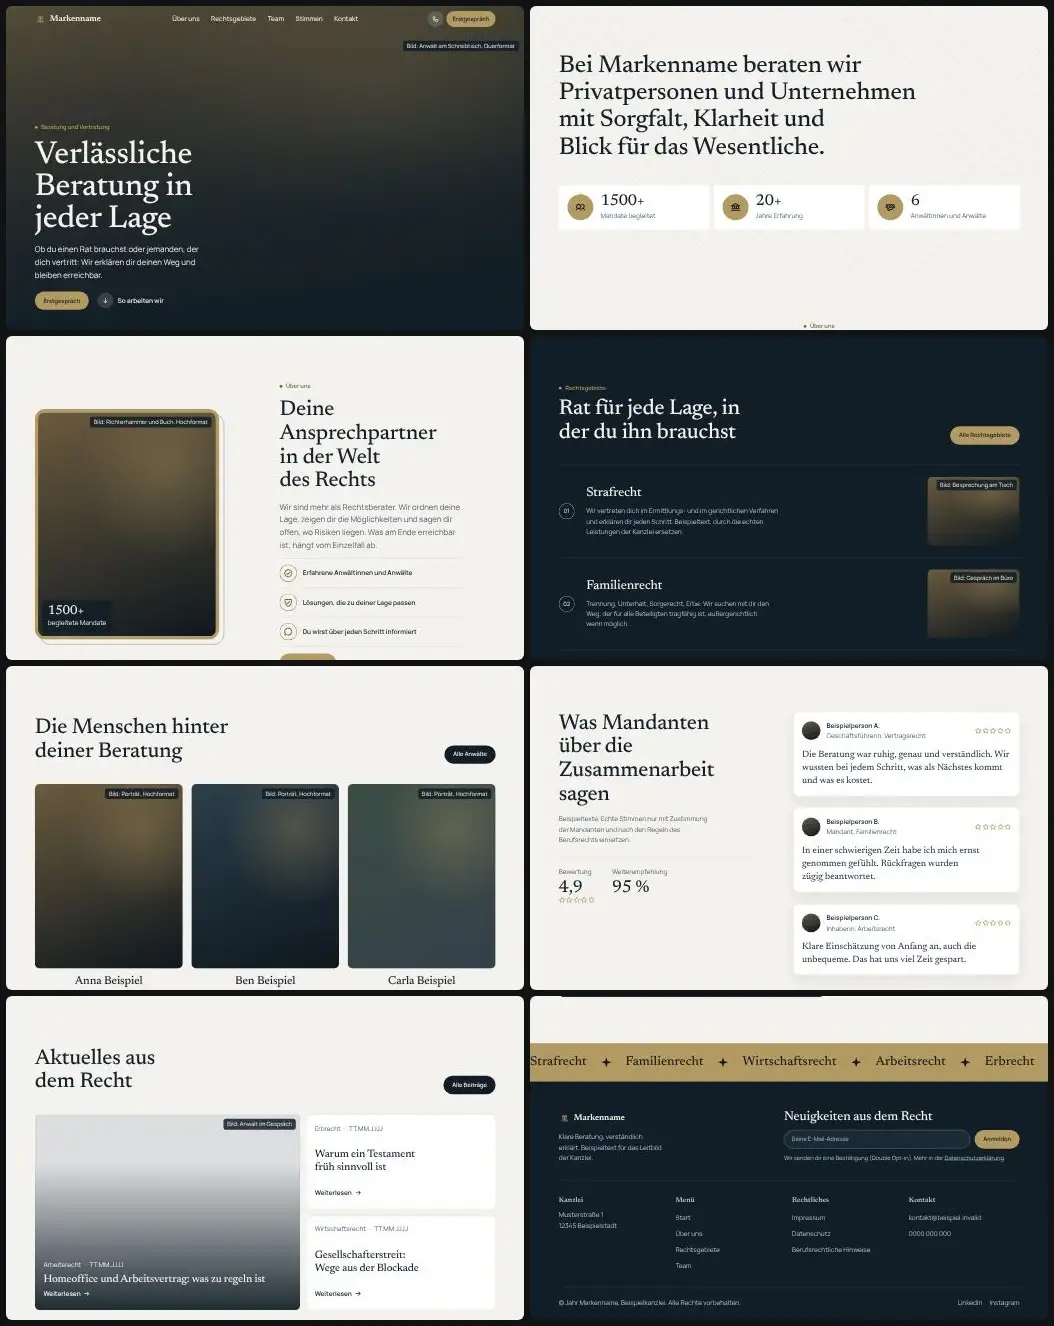
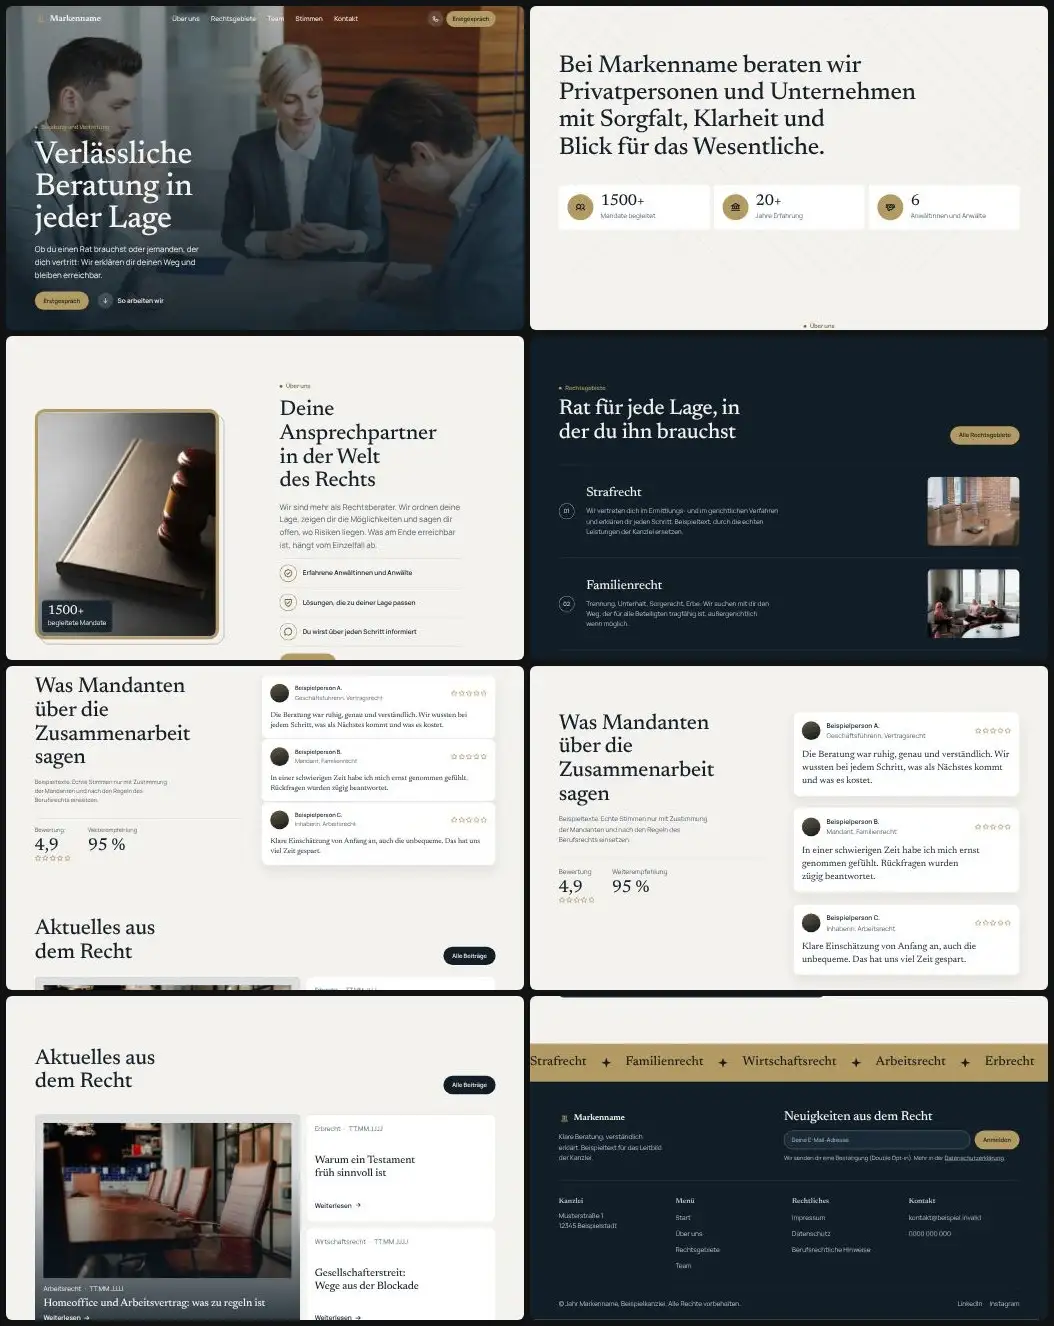
Bibliothek t64: Beispielfotos (Unsplash) eingebaut, Vorschaubilder neu erzeugt
Claude-Session: https://claude.ai/code/session_01DoGuL1bwF3ewggMgZ4Cpvd

diff --git a/skills/webdesign-conversion/assets/vorlagen/bibliothek/t64/v2.html b/skills/webdesign-conversion/assets/vorlagen/bibliothek/t64/v2.html
@@ -64,7 +64,7 @@
         </div>
       </div>
       <div class="rahmen rahmen--dunkel" data-zeig="skala">
-        <div class="bild rahmen__bild" data-platzhalter="Bild: Anwalt mit Akte, Hochformat" role="img" aria-label="Platzhalter für ein Foto von einem Anwalt mit einer Akte"></div>
+        <div class="bild rahmen__bild"><img src="bilder/kanzlei-unterschrift-holztisch.webp" width="900" height="600" alt="Eine Hand unterschreibt ein Dokument auf einem Holztisch" loading="lazy" decoding="async"></div>
       </div>
     </div>
   </section>
@@ -83,15 +83,15 @@
       </header>
       <div class="mosaik" data-staffel data-beispiel>
         <div class="mosaik__spalte">
-          <div class="bild mosaik__bild bild--a" data-zeig data-platzhalter="Bild: Unterschrift auf Vertrag" role="img" aria-label="Platzhalter für ein Foto von einer Unterschrift auf einem Vertrag"></div>
+          <div class="bild mosaik__bild bild--a" data-zeig><img src="bilder/kanzlei-vertrag-schreiben.webp" width="1000" height="800" alt="Hände mit Stift auf einem Vertrag" loading="lazy" decoding="async"></div>
           <article class="karte karte--messing" data-zeig><h3>Klar erklärt</h3><p>Rechtliche Fragen sind selten einfach. Wir übersetzen sie in verständliche Schritte.</p></article>
         </div>
         <div class="mosaik__spalte mosaik__spalte--mitte">
-          <article class="karte karte--bild bild bild--b" data-zeig data-platzhalter="Bild: Richterhammer und Buch"><div><h3>Erfahrung im Verfahren</h3><p>Wir kennen Abläufe, Fristen und Gegenseiten und bereiten jeden Termin sorgfältig vor.</p></div></article>
+          <article class="karte karte--bild bild bild--b" data-zeig><img src="bilder/kanzlei-hammer-dunkel.webp" width="1000" height="667" alt="Holzhammer neben einem Buch auf dunkler Fläche" loading="lazy" decoding="async"><div><h3>Erfahrung im Verfahren</h3><p>Wir kennen Abläufe, Fristen und Gegenseiten und bereiten jeden Termin sorgfältig vor.</p></div></article>
         </div>
         <div class="mosaik__spalte">
           <article class="karte karte--grau" data-zeig><h3>Erreichbar bleiben</h3><p>Du hast eine feste Ansprechperson und erfährst, wie es weitergeht.</p></article>
-          <div class="bild mosaik__bild bild--c" data-zeig data-platzhalter="Bild: Waage und Hammer" role="img" aria-label="Platzhalter für ein Foto von einer Waage und einem Hammer"></div>
+          <div class="bild mosaik__bild bild--c" data-zeig><img src="bilder/kanzlei-hammer-marmor.webp" width="1000" height="667" alt="Holzhammer und Block auf hellem Marmor" loading="lazy" decoding="async"></div>
         </div>
       </div>
       <p class="mitte"><a class="knopf knopf--dunkel" href="#kontakt" data-zeig>Mehr über uns</a></p>
@@ -112,17 +112,17 @@
         <article class="praxis__zeile" data-zeig>
           <p class="praxis__nr" aria-hidden="true">01</p>
           <div class="praxis__text"><h3>Strafrecht</h3><p>Wir vertreten dich im Ermittlungs- und im gerichtlichen Verfahren und erklären dir jeden Schritt. Beispieltext, durch die echten Leistungen der Kanzlei ersetzen.</p></div>
-          <div class="bild praxis__bild bild--a" data-platzhalter="Bild: Besprechung am Tisch" role="img" aria-label="Platzhalter für ein Foto: Besprechung am Tisch"></div>
+          <div class="bild praxis__bild bild--a"><img src="bilder/kanzlei-konferenzraum-holz.webp" width="1000" height="563" alt="Konferenzraum mit Holztisch und Stühlen" loading="lazy" decoding="async"></div>
         </article>
         <article class="praxis__zeile" data-zeig>
           <p class="praxis__nr" aria-hidden="true">02</p>
           <div class="praxis__text"><h3>Familienrecht</h3><p>Trennung, Unterhalt, Sorgerecht, Erbe: Wir suchen mit dir den Weg, der für alle Beteiligten tragfähig ist, außergerichtlich wenn möglich.</p></div>
-          <div class="bild praxis__bild bild--b" data-platzhalter="Bild: Gespräch im Büro" role="img" aria-label="Platzhalter für ein Foto: Gespräch im Büro"></div>
+          <div class="bild praxis__bild bild--b"><img src="bilder/kanzlei-sofa-gespraech.webp" width="1000" height="667" alt="Drei Personen im Gespräch auf einem Sofa vor großen Fenstern" loading="lazy" decoding="async"></div>
         </article>
         <article class="praxis__zeile" data-zeig>
           <p class="praxis__nr" aria-hidden="true">03</p>
           <div class="praxis__text"><h3>Wirtschaftsrecht</h3><p>Verträge, Gesellschaftsfragen und Streit mit Geschäftspartnern. Wir beraten Unternehmen vom Start bis zur Nachfolge.</p></div>
-          <div class="bild praxis__bild bild--c" data-platzhalter="Bild: Team am Besprechungstisch" role="img" aria-label="Platzhalter für ein Foto: Team am Besprechungstisch"></div>
+          <div class="bild praxis__bild bild--c"><img src="bilder/kanzlei-konferenzraum-leinwand.webp" width="1000" height="563" alt="Konferenzraum mit Leinwand und Stuhlreihen" loading="lazy" decoding="async"></div>
         </article>
       </div>
     </div>
@@ -155,7 +155,7 @@
       </header>
       <div class="warum__paar">
         <div class="rahmen rahmen--dunkel" data-zeig="links">
-          <div class="bild rahmen__bild" data-platzhalter="Bild: Beratung zu zweit, Hochformat" role="img" aria-label="Platzhalter für ein Foto von einer Beratung zu zweit"></div>
+          <div class="bild rahmen__bild"><img src="bilder/kanzlei-unterschrift-zu-zweit.webp" width="900" height="675" alt="Zwei Personen unterschreiben gemeinsam Unterlagen" loading="lazy" decoding="async"></div>
         </div>
         <ul class="warum__liste" data-staffel data-beispiel>
           <li data-zeig><span class="punkte__zeichen" aria-hidden="true"><svg width="26" height="26" focusable="false"><use href="#i-hand"/></svg></span><div><h3>Persönliche Betreuung</h3><p>Du sprichst mit der Person, die deine Akte kennt, und nicht mit wechselnden Ansprechpartnern.</p></div></li>
@@ -177,8 +177,8 @@
         <a class="knopf knopf--dunkel" href="#faelle" data-zeig>Alle Beispiele</a>
       </header>
       <ul class="faelle__raster" data-staffel data-beispiel>
-        <li data-zeig><div class="bild faelle__bild bild--a" data-platzhalter="Bild: Besprechung im Büro" role="img" aria-label="Platzhalter für ein Foto von einer Besprechung im Büro"></div><div class="faelle__karte"><h3>Gesellschafterstreit außergerichtlich beigelegt</h3><a class="beitrag__mehr" href="#faelle">Weiterlesen <svg width="18" height="18" aria-hidden="true" focusable="false"><use href="#i-pfeil"/></svg></a></div></li>
-        <li data-zeig><div class="bild faelle__bild bild--c" data-platzhalter="Bild: Gespräch am Tisch" role="img" aria-label="Platzhalter für ein Foto von einem Gespräch am Tisch"></div><div class="faelle__karte"><h3>Umgangsregelung einvernehmlich vereinbart</h3><a class="beitrag__mehr" href="#faelle">Weiterlesen <svg width="18" height="18" aria-hidden="true" focusable="false"><use href="#i-pfeil"/></svg></a></div></li>
+        <li data-zeig><div class="bild faelle__bild bild--a"><img src="bilder/kanzlei-stuehle-konferenztisch.webp" width="1000" height="563" alt="Schwarze Bürostühle an einem langen Konferenztisch" loading="lazy" decoding="async"></div><div class="faelle__karte"><h3>Gesellschafterstreit außergerichtlich beigelegt</h3><a class="beitrag__mehr" href="#faelle">Weiterlesen <svg width="18" height="18" aria-hidden="true" focusable="false"><use href="#i-pfeil"/></svg></a></div></li>
+        <li data-zeig><div class="bild faelle__bild bild--c"><img src="bilder/kanzlei-schreiben-papier.webp" width="1000" height="667" alt="Ein Mann schreibt mit einem Stift auf Papier" loading="lazy" decoding="async"></div><div class="faelle__karte"><h3>Umgangsregelung einvernehmlich vereinbart</h3><a class="beitrag__mehr" href="#faelle">Weiterlesen <svg width="18" height="18" aria-hidden="true" focusable="false"><use href="#i-pfeil"/></svg></a></div></li>
       </ul>
       <p class="faelle__hinweis">Beispieltexte. Aus echten Mandaten nur anonymisiert und mit Zustimmung berichten, und ohne Erfolgsversprechen für künftige Fälle.</p>
     </div>

diff --git a/skills/webdesign-conversion/assets/vorlagen/bibliothek/t64/index.html b/skills/webdesign-conversion/assets/vorlagen/bibliothek/t64/index.html
@@ -53,7 +53,7 @@
 <main id="inhalt">
   <!-- 1. Held: Vollbild, Text links unten -->
   <section class="held" id="top" aria-labelledby="h-held" data-abdunkeln>
-    <div class="bild held__bild" data-platzhalter="Bild: Anwalt am Schreibtisch, Querformat" role="img" aria-label="Platzhalter für ein Foto von einem Anwalt am Schreibtisch"></div>
+    <div class="bild held__bild"><img src="bilder/kanzlei-besprechung-vertrag.webp" width="1600" height="900" alt="Besprechung an einem Tisch, ein Vertrag wird unterschrieben" loading="lazy" decoding="async"></div>
     <div class="held__schleier" aria-hidden="true"></div>
     <div class="wrap held__innen" data-staffel>
       <p class="kicker kicker--hell" data-zeig>Beratung und Vertretung</p>
@@ -82,7 +82,7 @@
   <section class="sektion ueber" id="ueber-uns" aria-labelledby="h-ueber">
     <div class="wrap ueber__paar">
       <div class="rahmen" data-zeig="links">
-        <div class="bild rahmen__bild" data-platzhalter="Bild: Richterhammer und Buch, Hochformat" role="img" aria-label="Platzhalter für ein Foto von einem Richterhammer auf einem Buch"></div>
+        <div class="bild rahmen__bild"><img src="bilder/kanzlei-hammer-buch.webp" width="900" height="461" alt="Holzhammer auf einem geschlossenen Buch" loading="lazy" decoding="async"></div>
         <p class="rahmen__zahl" data-beispiel><span class="zahl"><span data-zaehle>1500</span>+</span><span>begleitete Mandate</span></p>
       </div>
       <div class="ueber__text" data-staffel>
@@ -113,17 +113,17 @@
         <article class="praxis__zeile" data-zeig>
           <p class="praxis__nr" aria-hidden="true">01</p>
           <div class="praxis__text"><h3>Strafrecht</h3><p>Wir vertreten dich im Ermittlungs- und im gerichtlichen Verfahren und erklären dir jeden Schritt. Beispieltext, durch die echten Leistungen der Kanzlei ersetzen.</p></div>
-          <div class="bild praxis__bild bild--a" data-platzhalter="Bild: Besprechung am Tisch" role="img" aria-label="Platzhalter für ein Foto: Besprechung am Tisch"></div>
+          <div class="bild praxis__bild bild--a"><img src="bilder/kanzlei-konferenzraum-holz.webp" width="1000" height="563" alt="Konferenzraum mit Holztisch und Stühlen" loading="lazy" decoding="async"></div>
         </article>
         <article class="praxis__zeile" data-zeig>
           <p class="praxis__nr" aria-hidden="true">02</p>
           <div class="praxis__text"><h3>Familienrecht</h3><p>Trennung, Unterhalt, Sorgerecht, Erbe: Wir suchen mit dir den Weg, der für alle Beteiligten tragfähig ist, außergerichtlich wenn möglich.</p></div>
-          <div class="bild praxis__bild bild--b" data-platzhalter="Bild: Gespräch im Büro" role="img" aria-label="Platzhalter für ein Foto: Gespräch im Büro"></div>
+          <div class="bild praxis__bild bild--b"><img src="bilder/kanzlei-sofa-gespraech.webp" width="1000" height="667" alt="Drei Personen im Gespräch auf einem Sofa vor großen Fenstern" loading="lazy" decoding="async"></div>
         </article>
         <article class="praxis__zeile" data-zeig>
           <p class="praxis__nr" aria-hidden="true">03</p>
           <div class="praxis__text"><h3>Wirtschaftsrecht</h3><p>Verträge, Gesellschaftsfragen und Streit mit Geschäftspartnern. Wir beraten Unternehmen vom Start bis zur Nachfolge.</p></div>
-          <div class="bild praxis__bild bild--c" data-platzhalter="Bild: Team am Besprechungstisch" role="img" aria-label="Platzhalter für ein Foto: Team am Besprechungstisch"></div>
+          <div class="bild praxis__bild bild--c"><img src="bilder/kanzlei-konferenzraum-leinwand.webp" width="1000" height="563" alt="Konferenzraum mit Leinwand und Stuhlreihen" loading="lazy" decoding="async"></div>
         </article>
       </div>
     </div>
@@ -178,7 +178,7 @@
         <a class="knopf knopf--dunkel" href="#blog" data-zeig>Alle Beiträge</a>
       </header>
       <div class="blog__raster" data-staffel data-beispiel>
-        <article class="beitrag beitrag--gross bild bild--b" data-zeig data-platzhalter="Bild: Anwalt im Gespräch">
+        <article class="beitrag beitrag--gross bild bild--b" data-zeig><img src="bilder/kanzlei-konferenzraum-leder.webp" width="1000" height="625" alt="Besprechungsraum mit großem Holztisch und Ledersesseln" loading="lazy" decoding="async">
           <div class="beitrag__innen"><p class="beitrag__meta">Arbeitsrecht<span aria-hidden="true">·</span>TT.MM.JJJJ</p><h3><a href="#blog">Homeoffice und Arbeitsvertrag: was zu regeln ist</a></h3><a class="beitrag__mehr" href="#blog">Weiterlesen <svg width="18" height="18" aria-hidden="true" focusable="false"><use href="#i-pfeil"/></svg></a></div>
         </article>
         <article class="beitrag" data-zeig><p class="beitrag__meta">Erbrecht<span aria-hidden="true">·</span>TT.MM.JJJJ</p><h3><a href="#blog">Warum ein Testament früh sinnvoll ist</a></h3><a class="beitrag__mehr" href="#blog">Weiterlesen <svg width="18" height="18" aria-hidden="true" focusable="false"><use href="#i-pfeil"/></svg></a></article>

diff --git a/skills/webdesign-conversion/assets/vorlagen/bibliothek/t64/stil-v2.css b/skills/webdesign-conversion/assets/vorlagen/bibliothek/t64/stil-v2.css
@@ -76,3 +76,4 @@ header.mitte h2{max-width:18ch}
 .faelle__karte h3{font-size:clamp(1.375rem,1.1rem + 1vw,1.875rem);margin-bottom:.75rem}
 .faelle__hinweis{margin-top:2.5rem;color:var(--text-leise);max-width:40rem}
 @media (min-width:48rem){.faelle__raster{grid-template-columns:repeat(2,1fr);gap:1.5rem}}
+.karte--bild>img{position:absolute;inset:0;width:100%;height:100%;object-fit:cover;z-index:0;border-radius:inherit}

diff --git a/skills/webdesign-conversion/assets/vorlagen/bibliothek/t64/BILDER.md b/skills/webdesign-conversion/assets/vorlagen/bibliothek/t64/BILDER.md
@@ -1,0 +1,31 @@
+# Bilder t64
+
+Alle Fotos von Unsplash, abgerufen am 25.11.2026. Titel und Lizenz stehen so auf der Seite des Fotos (Titel von Unsplash automatisch vergeben), als Fotograf ist das Unsplash Profil angegeben, weil die Seite den Namen nur als Profillink zeigte. Lizenz ist jeweils die Unsplash Lizenz.
+
+| Datei | Platz | Foto Titel | Fotograf (Profil) | Seite | Lizenz | Abruf |
+|---|---|---|---|---|---|---|
+| kanzlei-besprechung-vertrag.webp.webp | Held | Geschäftsleute unterschreiben einen Vertrag an einem Tisch | @silverkblack | https://unsplash.com/photos/iPheGw7_UaI | Unsplash Lizenz | 25.11.2026 |
+| kanzlei-hammer-buch.webp.webp | Rahmen | Ein Holzhammer ruht auf einem geschlossenen Buch | @sasun1990 | https://unsplash.com/photos/NB1dUts3ROU | Unsplash Lizenz | 25.11.2026 |
+| kanzlei-konferenzraum-holz.webp.webp | Praxis 1 (beide Varianten) | ein Konferenzraum mit Holztisch und Stühlen | @thedigstudios | https://unsplash.com/photos/Yngqf938yNY | Unsplash Lizenz | 25.11.2026 |
+| kanzlei-sofa-gespraech.webp.webp | Praxis 2 (beide Varianten) | 2 Frauen sitzen auf schwarzem Sofa | @tiend_ | https://unsplash.com/photos/WY5kuE0R4-k | Unsplash Lizenz | 25.11.2026 |
+| kanzlei-konferenzraum-leinwand.webp.webp | Praxis 3 (beide Varianten) | ein Konferenzraum mit Leinwand und Stühlen | @thedigstudios | https://unsplash.com/photos/Le6lJeyCSrs | Unsplash Lizenz | 25.11.2026 |
+| kanzlei-konferenzraum-leder.webp.webp | Beitrag groß | Ein Konferenzraum mit einem großen Holztisch und Ledersesseln | @bennieray | https://unsplash.com/photos/znrDHyqHpSI | Unsplash Lizenz | 25.11.2026 |
+| kanzlei-unterschrift-holztisch.webp.webp | v2 Rahmen | eine Person, die mit einem Stift auf ein Blatt Papier schreibt | @colynarymedia | https://unsplash.com/photos/ZKkuYgbTRl8 | Unsplash Lizenz | 25.11.2026 |
+| kanzlei-vertrag-schreiben.webp.webp | v2 Mosaik 1 | Person, die auf Whitepaper schreibt | @signaturepro | https://unsplash.com/photos/wB9iWZKwljw | Unsplash Lizenz | 25.11.2026 |
+| kanzlei-hammer-dunkel.webp.webp | v2 Mosaik 2 | Holzhammer, der auf einer dunklen Oberfläche neben dem Buch ruht | @sasun1990 | https://unsplash.com/photos/FaTLrG5-ViE | Unsplash Lizenz | 25.11.2026 |
+| kanzlei-hammer-marmor.webp.webp | v2 Mosaik 3 | Holzhammer und Block auf Marmor | @tingeyinjurylawfirm | https://unsplash.com/photos/6sl88x150Xs | Unsplash Lizenz | 25.11.2026 |
+| kanzlei-unterschrift-zu-zweit.webp.webp | v2 Rahmen Beratung | Person im orangefarbenen Langarmhemd schreibt auf weißem Papier | @romaindancre | https://unsplash.com/photos/doplSDELX7E | Unsplash Lizenz | 25.11.2026 |
+| kanzlei-stuehle-konferenztisch.webp.webp | v2 Fälle 1 | Schwarze Bürostühle mit verchromten Armlehnen in einer Reihe an einem Konferenztisch | @michaelfousert | https://unsplash.com/photos/RNsKphkdBTk | Unsplash Lizenz | 25.11.2026 |
+| kanzlei-schreiben-papier.webp.webp | v2 Fälle 2 | Mann, der auf Papier schreibt | @amstram | https://unsplash.com/photos/OQMZwNd3ThU | Unsplash Lizenz | 25.11.2026 |
+
+## Hinweise
+
+* Stockpersonen nur als Atmosphäre, keine echten Anwälte oder Mandanten. Vor Abgabe durch eigene Kanzleifotos ersetzen.
+* Keine Erfolgs oder Ergebnisversprechen im Bildtext.
+* Das Sofabild (Praxis 2) zeigt drei Personen, der Unsplash Titel nennt zwei Frauen. Der Alt Text beschreibt, was zu sehen ist.
+* In v2 wurde das Bild der Karte Erfahrung im Verfahren per CSS als Hintergrund hinter den Text gelegt (stil-v2.css, letzte Zeile).
+* Die Waage fehlte in den Suchergebnissen, deshalb steht Hammer auf Marmor für Waage und Hammer.
+
+## Offen
+
+* 3 Porträts Team in index.html und v2.html
